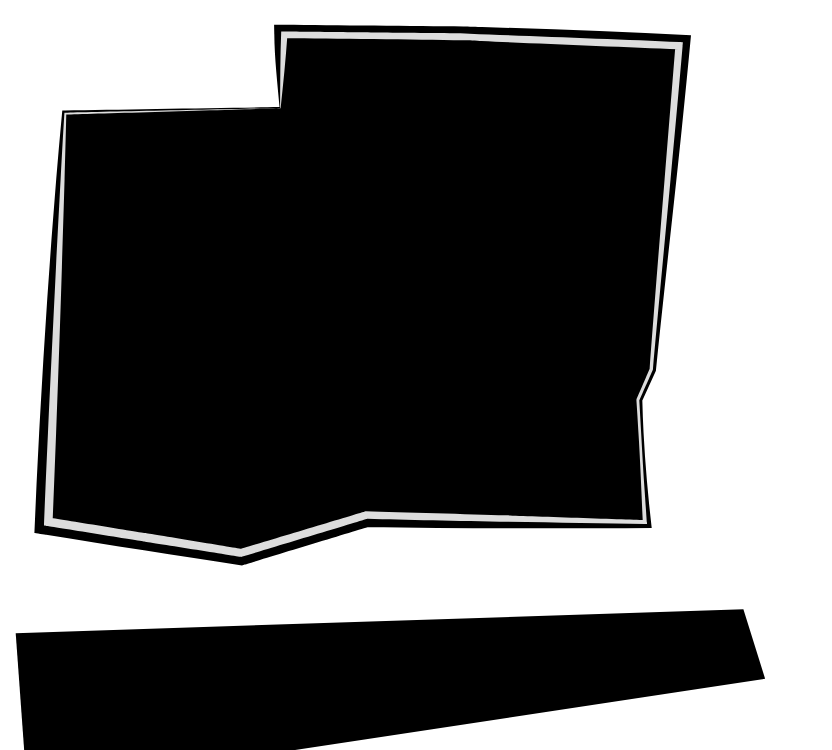
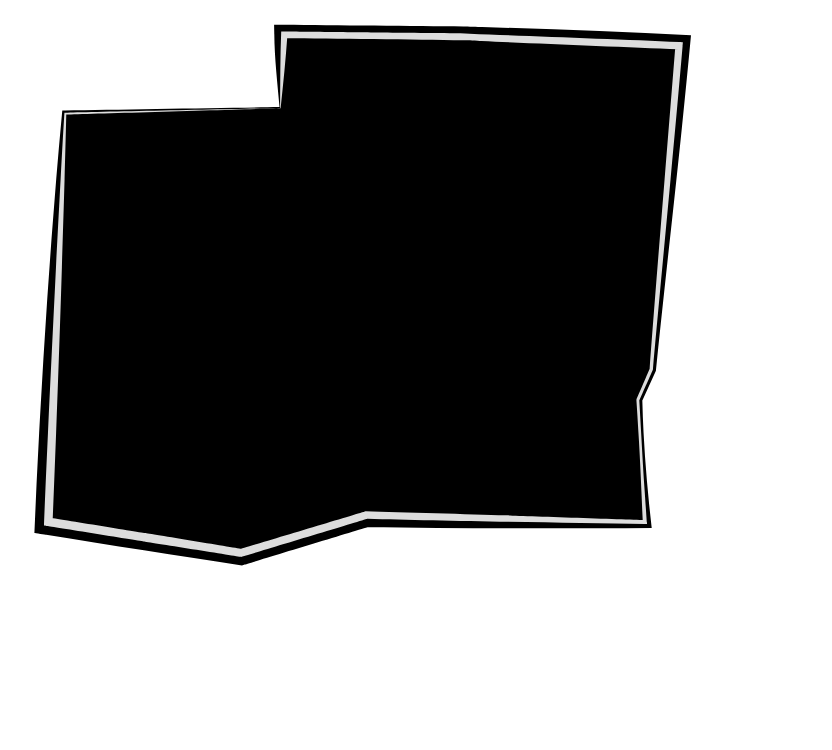
WANTED: the graph frame stays still between pages
The graph's slanted frame (panel_graph.png, cut out of the page
pictures) is drawn with the graph, so turning between pages that all
have the graph leaves it still; it fades only to and from the QR page.

Claude-Session: https://claude.ai/code/session_017jNdKC8hiQwgvk8yFZQE9D

Changed region(s): [[0.0, 0.7973, 0.9375, 1.0]]

diff --git a/docs/evaluation-wanted.md b/docs/evaluation-wanted.md
@@ -11,7 +11,8 @@ artwork.
 | White ground, shaded star pattern, black curve, red top band, black frame, "WANTED" | `Graphics/VOLT26/Wanted/backdrop.png`, drawn by `BGAnimations/ScreenEvaluationStage background.lua`. Shared by both players. The band and the stars come from the owner's own Illustrator export (`bg_wanted.png`), since the SVG loses the band's picture and the stars' shading. The band is a fixed picture, not the song's. |
 | Song background in the frame's spiky window | `overlay/Wanted/Picture.lua`, in the background layer. A textured `ActorMultiVertex` on the window polygon, turned -10.5° and covering the window at the picture's own aspect. The artwork's red overlay (#f11600, hard light, 70 %) is reproduced exactly: picture × (0.377, 0.421, 0.300) plus (0.623, 0, 0) added. Movie backgrounds fall back to the jacket or banner. Without any picture the window is the overlay on black. |
 | Plates (name, level, scores) | `Graphics/VOLT26/Wanted/panel_head.png` |
-| Judgment ladder, holds box, graph frame | `Graphics/VOLT26/Wanted/panel_body.png` |
+| Judgment ladder, holds box | `Graphics/VOLT26/Wanted/panel_body.png` |
+| Graph frame (shared by every page but QR; does not turn with the pages) | `Graphics/VOLT26/Wanted/panel_graph.png` |
 | All text, the level, the scores, the counts | `overlay/Wanted/Side.lua` through `overlay/Wanted/Text.lua`, at the artwork's text anchors (position, rotation, horizontal scale). |
 | Player name, letter grade | Cutout lettering (`VOLT26.Cutout`), styles `EvalName` and `EvalGrade` in `Scripts/VOLT26_CutoutStyles.lua`; warmed at startup. Star grades (Tier00-04) use the grade star picture. |
 | Graph | `overlay/Wanted/Graph.lua` |
@@ -79,7 +80,7 @@ stay on every page.
 | Page | Body | Content |
 | --- | --- | --- |
 | `wanted` | `panel_body.png` | Judgment ladder, holds/mines/rolls, grade (above). |
-| `notes` | `panel_notes.png` (the NOTES artboard's container and graph frame) | `Wanted/Notes.lua`: Simply Love's per-column pane. The player's noteskin arrows (`_modules/NoteSkinPreview.lua`) head the columns; the seven judgments are rows in their colours, each column's counts in the row's colour. The 10/15 ms Fantastic is split per column only with the FA+ window and pane on (that is when gameplay records it); otherwise its row shows a dash. |
+| `notes` | `panel_notes.png` (the NOTES artboard's container) | `Wanted/Notes.lua`: Simply Love's per-column pane. The player's noteskin arrows (`_modules/NoteSkinPreview.lua`) head the columns; the seven judgments are rows in their colours, each column's counts in the row's colour. The 10/15 ms Fantastic is split per column only with the FA+ window and pane on (that is when gameplay records it); otherwise its row shows a dash. |
 | `timing` | `panel_notes.png` | `Wanted/Timing.lua`: Simply Love's offset pane. An offset histogram (early left, late right, bars in their windows' colours, windows' edges marked), early / late / miss counts, mean, standard deviation and largest error. |
 | `qr` | `panel_qr.png` (the QR artboard's boxes and bolt) | `Wanted/Qr.lua`: Simply Love's GrooveStats QR code (`Pane7/GrooveStatsURL.lua`), white on black as drawn. A play GrooveStats would not take shows why; an automatic submission replaces the code with "already submitted". GS BEST is the chart's GrooveStats leaderboard, from the `VOLT26GrooveStatsLeaderboard` message that `Shared/AutoSubmitScore.lua` now sends. MACHINE BEST is the machine's best scores, with this play highlighted. |
 
